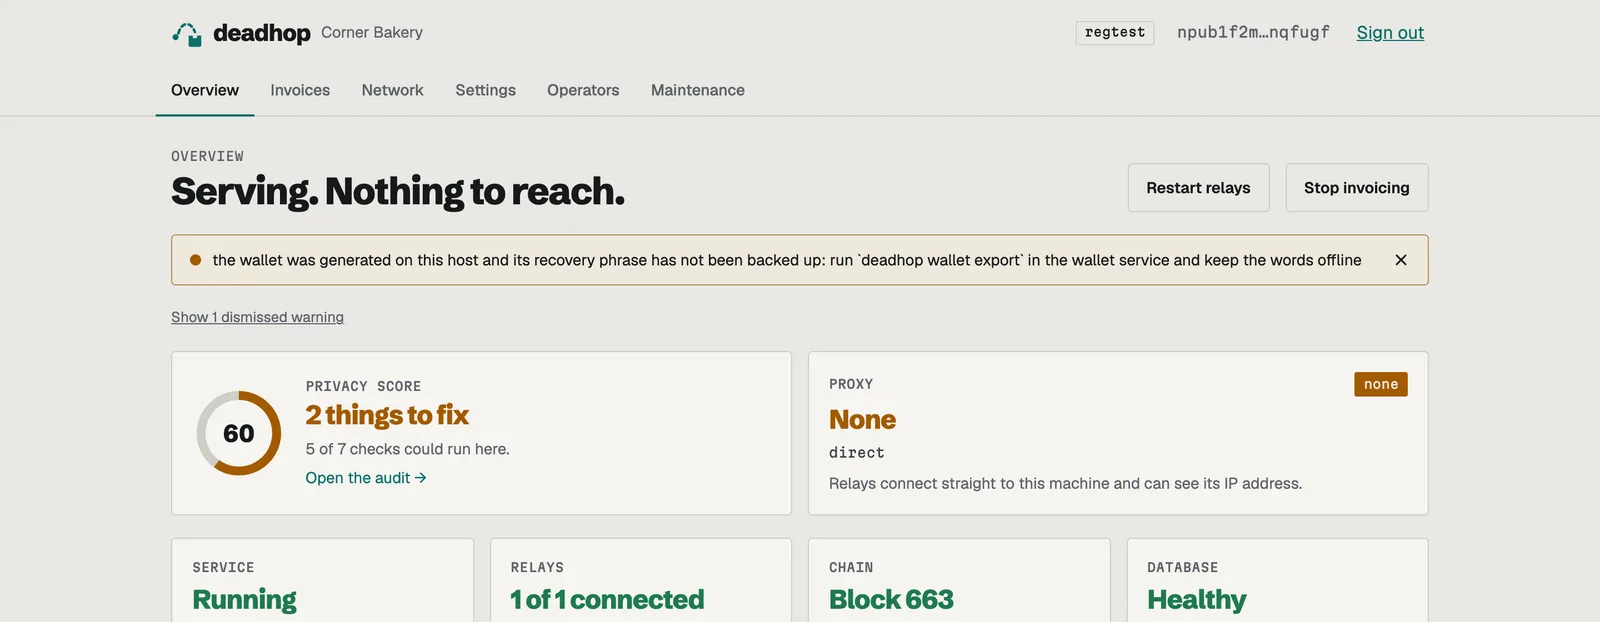
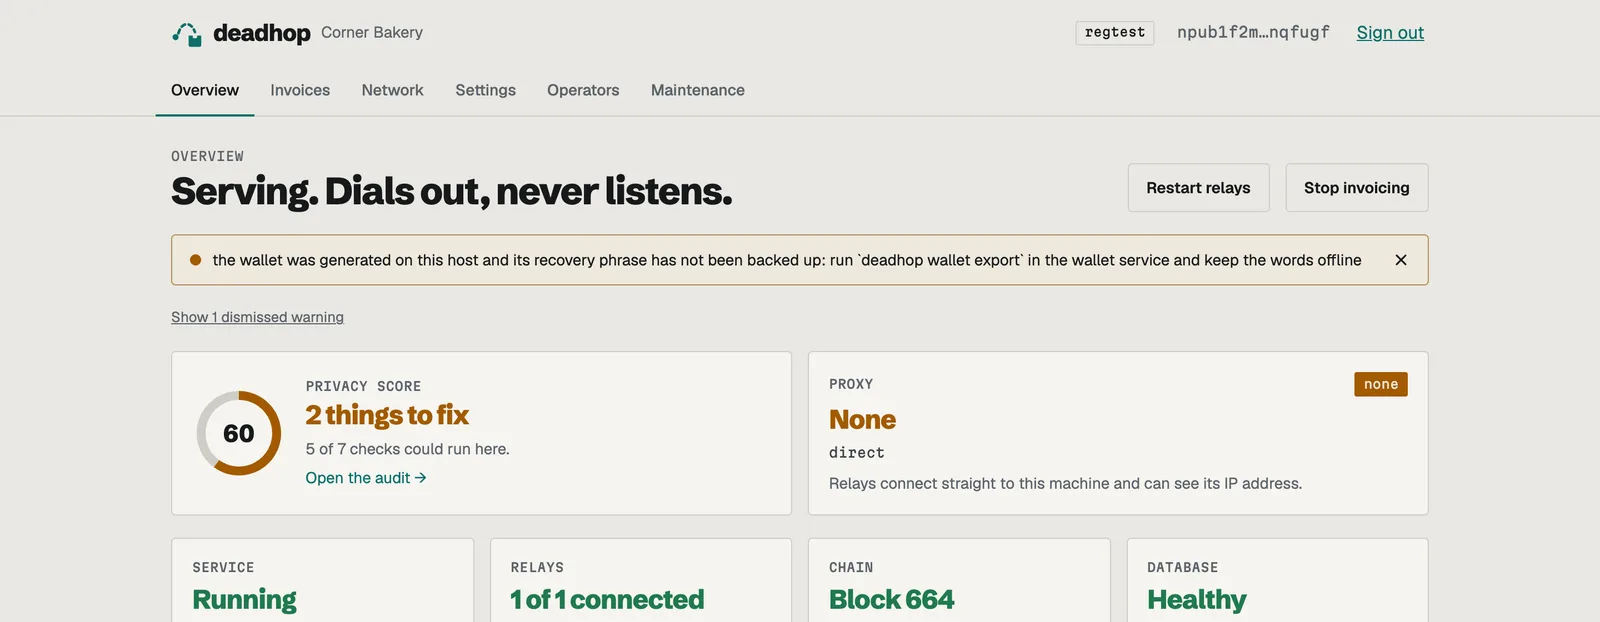
Tagline: "Dials out. Never listens." replaces "Nothing to reach. Nothing to spend."
The old line was wrong on both counts: customers and operators do reach the
service, through relays, and the dashboard shows "Reachable" for the proxy a
few hundred pixels from "Nothing to reach"; and the generated wallet's words
sit on the same host. The new line says what is true: the service only makes
outbound connections and has no listening socket.

Site hero, social card (re-rendered), brand README, dashboard Overview heading
and its test, lnaddr's "No open port at home" / "No spending credential in
public", and the dashboard screenshots retaken.

Changed region(s): [[0.1875, 0.2749, 0.4688, 0.336], [0.5625, 0.9469, 0.5938, 0.9775]]

diff --git a/src/lnaddr/content.ts b/src/lnaddr/content.ts
@@ -43,8 +43,8 @@ export const lnaddr: Tool = {
     },
   ],
   points: [
-    { title: 'Nothing to reach at home', body: 'lnaddr-node only dials out to relays. No VPN, no Tailscale, no tunnel, no forwarded port, no dynamic DNS.' },
-    { title: 'Nothing to spend in public', body: 'The gateway holds no Lightning credential. The node holds an invoice-only one: a macaroon, rune, limited password or invoice key.' },
+    { title: 'No open port at home', body: 'lnaddr-node only dials out to relays. No VPN, no Tailscale, no tunnel, no forwarded port, no dynamic DNS.' },
+    { title: 'No spending credential in public', body: 'The gateway holds no Lightning credential. The node holds an invoice-only one: a macaroon, rune, limited password or invoice key.' },
     { title: 'Any proxy, any host', body: 'One path prefix to forward. Caddy, nginx, Traefik, HAProxy, Apache, a Unix socket or a Tor onion service.' },
     { title: 'Two static binaries', body: 'About 8 MB each, no runtime and no system libraries. Configure by file, environment, built-in values or, if you allow it, over Nostr.' },
     { title: 'Every invoice checked twice', body: 'Amount, description hash, network, expiry and, if pinned, the signing node: by the node, then by the gateway.' },

diff --git a/src/content.ts b/src/content.ts
@@ -4,7 +4,7 @@
 export const product = {
   name: 'deadhop',
   title: 'deadhop: on-chain bitcoin payments with no public server',
-  motto: 'Nothing to reach. Nothing to spend.',
+  motto: 'Dials out. Never listens.',
   tagline: 'Accept on-chain bitcoin payments without exposing a server.',
   summary:
     'deadhop creates bitcoin invoices, watches the chain and reports payments. Customers and operators reach it only through Nostr relays. It opens no ports and holds no spending keys.',

diff --git a/docs/lnaddr/index.md b/docs/lnaddr/index.md
@@ -20,8 +20,8 @@ wallet ──https──▶ reverse proxy ──▶ lnaddr-gateway ──Nostr r
 
 ## What it is for
 
-- **Nothing to reach at home.** The node service only dials out, so nothing at home listens, and changing ISP or network changes nothing.
-- **Nothing to spend on the public host.** The gateway holds no Lightning credential. The node holds an invoice-only one: LND's `invoice.macaroon`, a Core Lightning rune limited to `method=invoice`, phoenixd's limited password, or an LNbits invoice key.
+- **No open port at home.** The node service only dials out, so nothing at home listens, and changing ISP or network changes nothing.
+- **No spending credential on the public host.** The gateway holds no Lightning credential. The node holds an invoice-only one: LND's `invoice.macaroon`, a Core Lightning rune limited to `method=invoice`, phoenixd's limited password, or an LNbits invoice key.
 - **Two small static binaries.** No runtime, no system libraries, no certificates to install. Each image is about 8 MB on an empty base.
 
 ## Where to go next

diff --git a/docs/index.md b/docs/index.md
@@ -35,7 +35,7 @@ Every page says at the top which kind it is.
 
 ## Tools built the same way
 
-Each one does one job with nothing to reach from outside.
+Each one does one job, built the same way.
 
 | Tool | What it does | Start |
 | --- | --- | --- |
